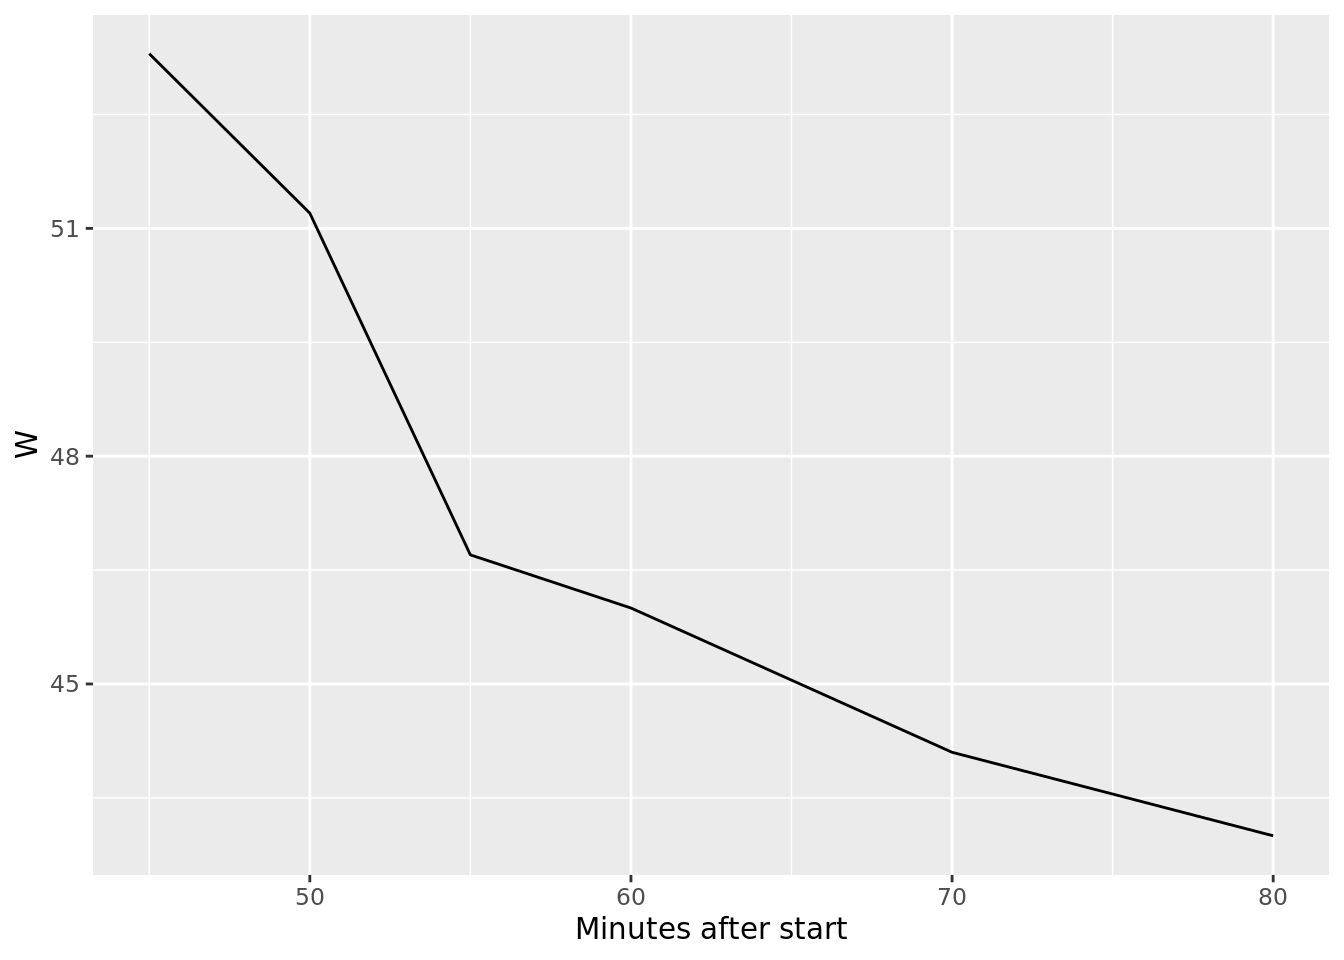
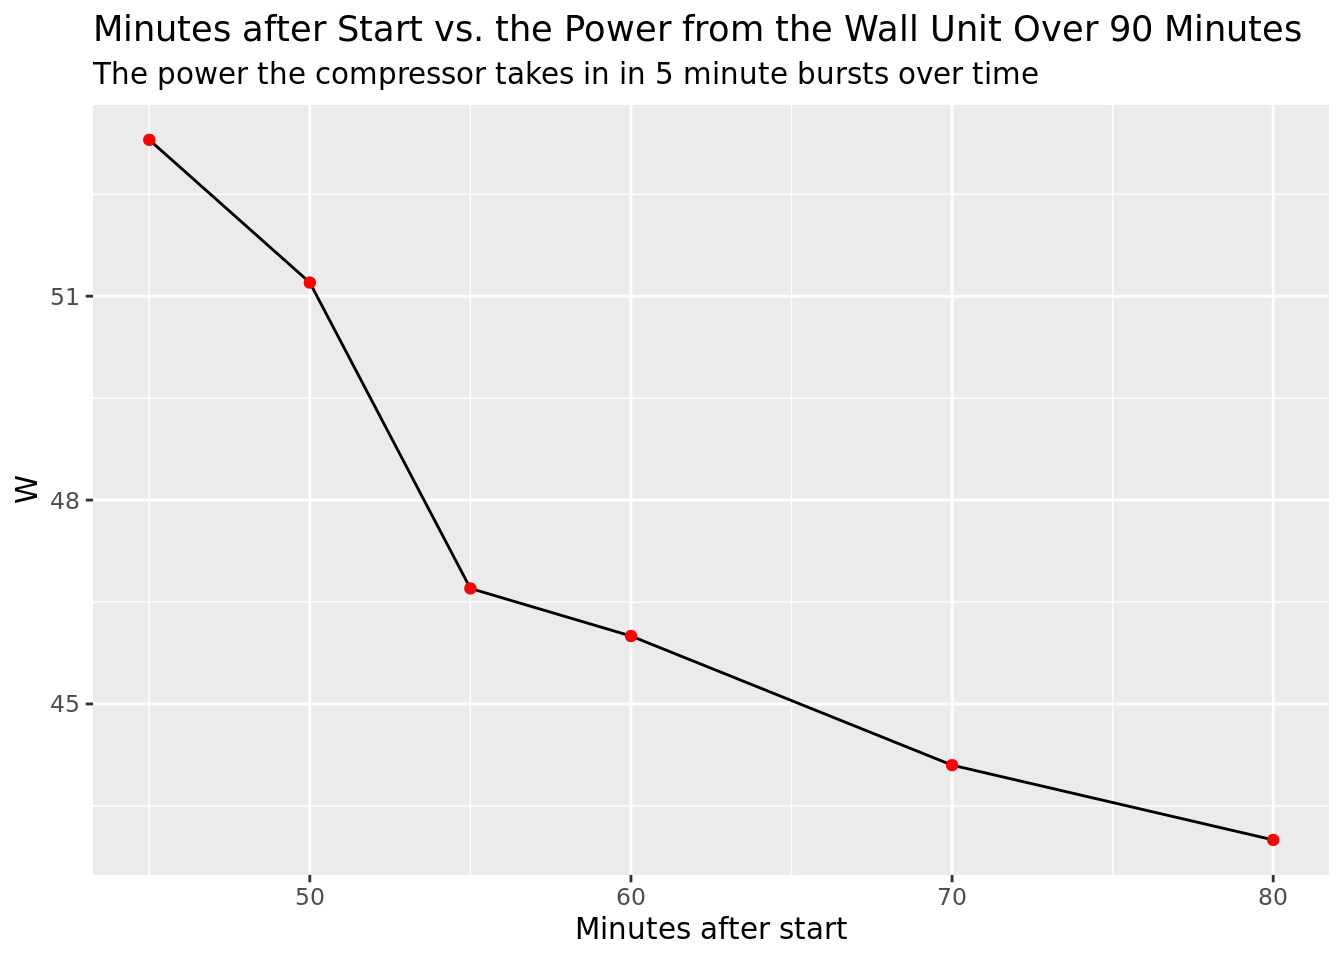
added q dot code and graphed it for the water

diff --git a/thermo data analysis.html b/thermo data analysis.html
@@ -70,6 +70,35 @@ pre > code.sourceCode > span > a:first-child::before { text-decoration: underlin
 <link href="thermo data analysis_files/libs/bootstrap/bootstrap-icons.css" rel="stylesheet">
 <link href="thermo data analysis_files/libs/bootstrap/bootstrap.min.css" rel="stylesheet" id="quarto-bootstrap" data-mode="light">
 
+  <script src="https://cdnjs.cloudflare.com/polyfill/v3/polyfill.min.js?features=es6"></script>
+  <script src="https://cdn.jsdelivr.net/npm/mathjax@3/es5/tex-chtml-full.js" type="text/javascript"></script>
+
+<script type="text/javascript">
+const typesetMath = (el) => {
+  if (window.MathJax) {
+    // MathJax Typeset
+    window.MathJax.typeset([el]);
+  } else if (window.katex) {
+    // KaTeX Render
+    var mathElements = el.getElementsByClassName("math");
+    var macros = [];
+    for (var i = 0; i < mathElements.length; i++) {
+      var texText = mathElements[i].firstChild;
+      if (mathElements[i].tagName == "SPAN") {
+        window.katex.render(texText.data, mathElements[i], {
+          displayMode: mathElements[i].classList.contains('display'),
+          throwOnError: false,
+          macros: macros,
+          fleqn: false
+        });
+      }
+    }
+  }
+}
+window.Quarto = {
+  typesetMath
+};
+</script>
 
 </head>
 
@@ -128,32 +157,43 @@ pre > code.sourceCode > span > a:first-child::before { text-decoration: underlin
 <div class="sourceCode cell-code" id="cb2"><pre class="sourceCode r code-with-copy"><code class="sourceCode r"><span id="cb2-1"><a href="#cb2-1" aria-hidden="true" tabindex="-1"></a>baseline <span class="ot">&lt;-</span> <span class="fu">read_csv</span>(<span class="st">"thermo_baseline.csv"</span>, <span class="at">show_col_types =</span> <span class="cn">FALSE</span>)</span>
 <span id="cb2-2"><a href="#cb2-2" aria-hidden="true" tabindex="-1"></a>baseline <span class="ot">&lt;-</span> baseline <span class="sc">|&gt;</span></span>
 <span id="cb2-3"><a href="#cb2-3" aria-hidden="true" tabindex="-1"></a>  <span class="fu">select</span>(<span class="fu">where</span>(<span class="sc">~</span> <span class="sc">!</span><span class="fu">all</span>(<span class="fu">is.na</span>(.))))</span>
-<span id="cb2-4"><a href="#cb2-4" aria-hidden="true" tabindex="-1"></a>baseline</span></code><button title="Copy to Clipboard" class="code-copy-button"><i class="bi"></i></button></pre></div>
+<span id="cb2-4"><a href="#cb2-4" aria-hidden="true" tabindex="-1"></a>trial1 <span class="ot">&lt;-</span> <span class="fu">read_csv</span>(<span class="st">"trial1.csv"</span>, <span class="at">col_types =</span> <span class="fu">cols_only</span>(</span>
+<span id="cb2-5"><a href="#cb2-5" aria-hidden="true" tabindex="-1"></a>  <span class="st">`</span><span class="at">Minutes after start</span><span class="st">`</span> <span class="ot">=</span> <span class="fu">col_double</span>(), </span>
+<span id="cb2-6"><a href="#cb2-6" aria-hidden="true" tabindex="-1"></a>  <span class="st">`</span><span class="at">temp in fridge</span><span class="st">`</span> <span class="ot">=</span> <span class="fu">col_double</span>(),</span>
+<span id="cb2-7"><a href="#cb2-7" aria-hidden="true" tabindex="-1"></a>  <span class="st">`</span><span class="at">temp in water</span><span class="st">`</span> <span class="ot">=</span> <span class="fu">col_double</span>(),</span>
+<span id="cb2-8"><a href="#cb2-8" aria-hidden="true" tabindex="-1"></a>  <span class="st">`</span><span class="at">temp in air</span><span class="st">`</span> <span class="ot">=</span> <span class="fu">col_double</span>()), </span>
+<span id="cb2-9"><a href="#cb2-9" aria-hidden="true" tabindex="-1"></a>  <span class="at">show_col_types =</span> <span class="cn">FALSE</span>, </span>
+<span id="cb2-10"><a href="#cb2-10" aria-hidden="true" tabindex="-1"></a>  <span class="at">name_repair =</span> <span class="st">"unique_quiet"</span>)</span>
+<span id="cb2-11"><a href="#cb2-11" aria-hidden="true" tabindex="-1"></a></span>
+<span id="cb2-12"><a href="#cb2-12" aria-hidden="true" tabindex="-1"></a>trial1</span></code><button title="Copy to Clipboard" class="code-copy-button"><i class="bi"></i></button></pre></div>
 <div class="cell-output cell-output-stdout">
-<pre><code># A tibble: 16 × 5
-   `Minutes after start` volts   kwh    hz     W
-                   &lt;dbl&gt; &lt;dbl&gt; &lt;dbl&gt; &lt;dbl&gt; &lt;dbl&gt;
- 1                     0  121.  0     59.9   0  
- 2                     5  121.  0     60     0  
- 3                    10  121.  0     59.9   0  
- 4                    15  121   0     60     0  
- 5                    20  121   0     60     0  
- 6                    25  121.  0     60     0  
- 7                    30  121.  0     60     0  
- 8                    35  121.  0     59.9   0  
- 9                    40  121.  0     60     0  
-10                    45  121.  0     60    53.3
-11                    50  121   0     59.9  51.2
-12                    55  121.  0     59.9  46.7
-13                    60  121.  0     60    46  
-14                    70  121.  0.01  60    44.1
-15                    80  121   0.02  60    43  
-16                    90  122.  0.02  60     0  </code></pre>
+<pre><code># A tibble: 19 × 4
+   `Minutes after start` `temp in fridge` `temp in water` `temp in air`
+                   &lt;dbl&gt;            &lt;dbl&gt;           &lt;dbl&gt;         &lt;dbl&gt;
+ 1                     0            11.3             19.8          20  
+ 2                     5             9.55            18.3          19.9
+ 3                    10             9.6             17.3          19.8
+ 4                    15             9.65            16.8          19.9
+ 5                    20             9.45            15.7          20  
+ 6                    25             8.96            15.3          19.9
+ 7                    30             9.11            14.7          20  
+ 8                    35             9.4             14.2          19.8
+ 9                    40             9.11            13.7          20.1
+10                    45             9.26            13.3          19.8
+11                    50             9.11            13.0          19.8
+12                    55             8.96            12.3          20.0
+13                    60             8.67            11.9          20.0
+14                    65             9.01            11.5          20  
+15                    70             8.86            11.6          20.1
+16                    75             8.82            11.4          19.6
+17                    80             8.77            10.9          19.7
+18                    85             8.62            10.8          20.0
+19                    90             8.62            10.5          NA  </code></pre>
 </div>
 </div>
 </section>
-<section id="section" class="level2">
-<h2 class="anchored" data-anchor-id="section"></h2>
+<section id="cleaning-process" class="level2">
+<h2 class="anchored" data-anchor-id="cleaning-process">Cleaning Process</h2>
 <p>The team then cleaned out the dataset so it only reflected the moments where the compressor in the fridge was using power, rather than the total data collection time, as many values for work rate (power) are 0.</p>
 <div class="cell">
 <div class="sourceCode cell-code" id="cb4"><pre class="sourceCode r code-with-copy"><code class="sourceCode r"><span id="cb4-1"><a href="#cb4-1" aria-hidden="true" tabindex="-1"></a>baseline_filt <span class="ot">&lt;-</span> baseline <span class="sc">|&gt;</span></span>
@@ -171,14 +211,48 @@ pre > code.sourceCode > span > a:first-child::before { text-decoration: underlin
 6                    80  121   0.02  60    43  </code></pre>
 </div>
 </div>
+</section>
+<section id="plotting-baseline-data" class="level2">
+<h2 class="anchored" data-anchor-id="plotting-baseline-data">Plotting Baseline Data</h2>
 <p>Next, the team made two plots: minutes after start vs.&nbsp;W (work) and minutes after start vs.&nbsp;volts. <strong>Figure 1</strong> is the first plot.</p>
 <div class="cell">
 <div class="sourceCode cell-code" id="cb6"><pre class="sourceCode r code-with-copy"><code class="sourceCode r"><span id="cb6-1"><a href="#cb6-1" aria-hidden="true" tabindex="-1"></a><span class="fu">ggplot</span>(baseline_filt, <span class="fu">aes</span>(<span class="at">x =</span> <span class="st">`</span><span class="at">Minutes after start</span><span class="st">`</span>, <span class="at">y =</span> W)) <span class="sc">+</span></span>
-<span id="cb6-2"><a href="#cb6-2" aria-hidden="true" tabindex="-1"></a>  <span class="fu">geom_line</span>()</span></code><button title="Copy to Clipboard" class="code-copy-button"><i class="bi"></i></button></pre></div>
+<span id="cb6-2"><a href="#cb6-2" aria-hidden="true" tabindex="-1"></a>  <span class="fu">geom_line</span>() <span class="sc">+</span></span>
+<span id="cb6-3"><a href="#cb6-3" aria-hidden="true" tabindex="-1"></a>  <span class="fu">geom_point</span>(<span class="at">color =</span> <span class="st">"red"</span>) <span class="sc">+</span></span>
+<span id="cb6-4"><a href="#cb6-4" aria-hidden="true" tabindex="-1"></a>  <span class="fu">labs</span>(<span class="at">title =</span> <span class="st">"Minutes after Start vs. the Power from the Wall Unit Over 90 Minutes"</span>,</span>
+<span id="cb6-5"><a href="#cb6-5" aria-hidden="true" tabindex="-1"></a>       <span class="at">subtitle =</span> <span class="st">"The power the compressor takes in in 5 minute bursts over time"</span>,</span>
+<span id="cb6-6"><a href="#cb6-6" aria-hidden="true" tabindex="-1"></a>       <span class="at">x_label =</span> <span class="st">"Time (min)"</span>, </span>
+<span id="cb6-7"><a href="#cb6-7" aria-hidden="true" tabindex="-1"></a>       <span class="at">y_lab =</span> <span class="st">"Power (Watts)"</span>)</span></code><button title="Copy to Clipboard" class="code-copy-button"><i class="bi"></i></button></pre></div>
 <div class="cell-output-display">
 <div>
 <figure class="figure">
 <p><img src="thermo-data-analysis_files/figure-html/plot-work-1.png" class="img-fluid figure-img" width="672"></p>
+</figure>
+</div>
+</div>
+</div>
+</section>
+<section id="using-water-dish" class="level2">
+<h2 class="anchored" data-anchor-id="using-water-dish">Using Water Dish</h2>
+<p>After a clear idea, the team placed a dish of water with the mass of <em>mass</em> to see the rate of heat transfer from water to the fridge. This variable will be called <span class="math display">\[\dot{Q_w}\]</span></p>
+<p>.Plotting this:</p>
+<div class="cell">
+<div class="sourceCode cell-code" id="cb7"><pre class="sourceCode r code-with-copy"><code class="sourceCode r"><span id="cb7-1"><a href="#cb7-1" aria-hidden="true" tabindex="-1"></a><span class="fu">ggplot</span>(trial1, <span class="fu">aes</span>(<span class="at">x =</span> <span class="st">`</span><span class="at">Minutes after start</span><span class="st">`</span>)) <span class="sc">+</span></span>
+<span id="cb7-2"><a href="#cb7-2" aria-hidden="true" tabindex="-1"></a>  <span class="fu">geom_line</span>(<span class="fu">aes</span>(<span class="at">y =</span> <span class="st">`</span><span class="at">temp in fridge</span><span class="st">`</span>)) <span class="sc">+</span></span>
+<span id="cb7-3"><a href="#cb7-3" aria-hidden="true" tabindex="-1"></a>  <span class="fu">geom_line</span>(<span class="fu">aes</span>(<span class="at">y =</span> <span class="st">`</span><span class="at">temp in water</span><span class="st">`</span>)) <span class="sc">+</span></span>
+<span id="cb7-4"><a href="#cb7-4" aria-hidden="true" tabindex="-1"></a>  <span class="fu">geom_line</span>(<span class="fu">aes</span>(<span class="at">y =</span> <span class="st">`</span><span class="at">temp in air</span><span class="st">`</span>)) <span class="sc">+</span></span>
+<span id="cb7-5"><a href="#cb7-5" aria-hidden="true" tabindex="-1"></a>  <span class="fu">labs</span>(<span class="at">title =</span> <span class="st">"Minutes after Start vs. the Temperature"</span>,</span>
+<span id="cb7-6"><a href="#cb7-6" aria-hidden="true" tabindex="-1"></a>       <span class="at">subtitle =</span> <span class="st">"Measuring the temperature in air, water, and the fridge over time"</span>,</span>
+<span id="cb7-7"><a href="#cb7-7" aria-hidden="true" tabindex="-1"></a>       <span class="at">x_label =</span> <span class="st">"Time (min)"</span>, </span>
+<span id="cb7-8"><a href="#cb7-8" aria-hidden="true" tabindex="-1"></a>       <span class="at">y_lab =</span> <span class="st">"Temperature (Celsius)"</span>)</span></code><button title="Copy to Clipboard" class="code-copy-button"><i class="bi"></i></button></pre></div>
+<div class="cell-output cell-output-stderr">
+<pre><code>Warning: Removed 1 row containing missing values or values outside the scale range
+(`geom_line()`).</code></pre>
+</div>
+<div class="cell-output-display">
+<div>
+<figure class="figure">
+<p><img src="thermo-data-analysis_files/figure-html/plot-temp-1.png" class="img-fluid figure-img" width="672"></p>
 </figure>
 </div>
 </div>
